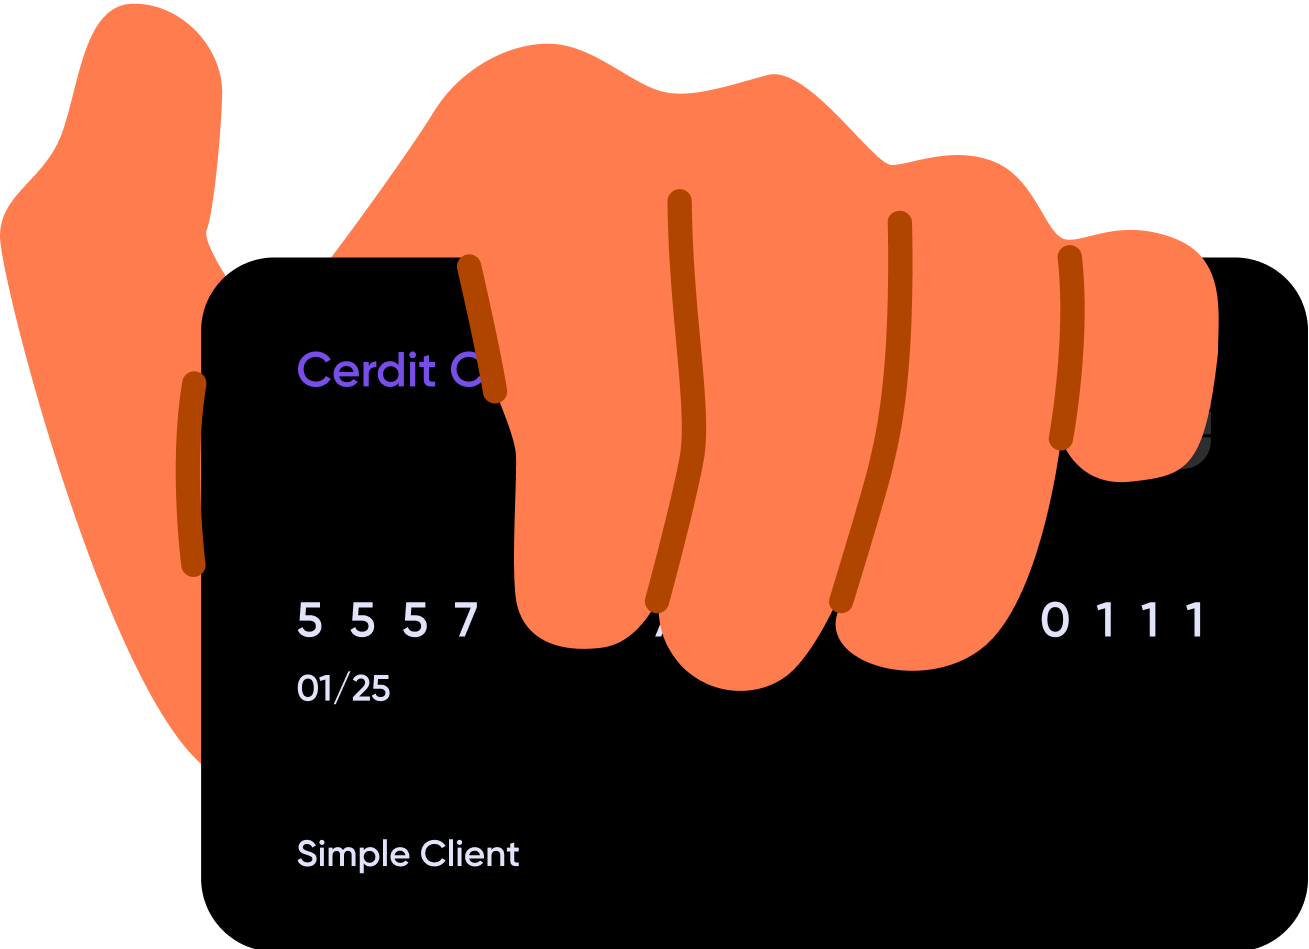
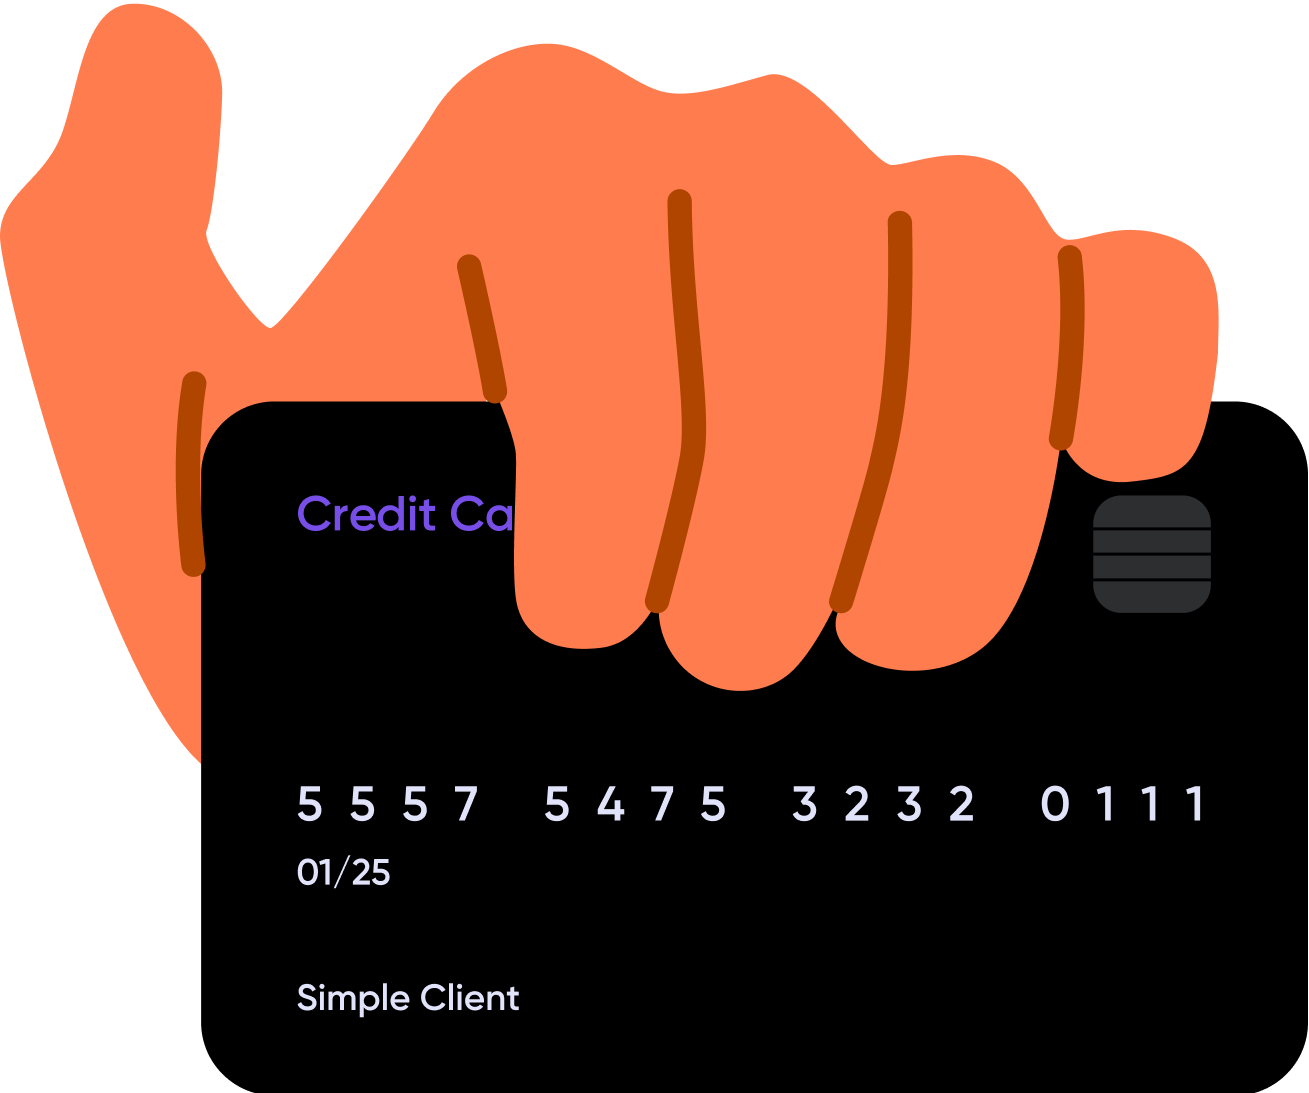
SPU-2238 > Fix card verification

diff --git a/lib/features/kyc/upload_documents/ui/widgets/upload_verification_photo.dart b/lib/features/kyc/upload_documents/ui/widgets/upload_verification_photo.dart
@@ -134,20 +134,6 @@ class _UploadVerificationPhotoBody extends StatelessObserverWidget {
                           ],
                         ),
                       ),
-                      const SpaceH20(),
-                      SPaddingH24(
-                        child: Row(
-                          children: [
-                            Text(
-                              intl.cardVerification_coveredDigits,
-                              maxLines: 2,
-                              style: sBodyText1Style.copyWith(
-                                color: colors.black,
-                              ),
-                            ),
-                          ],
-                        ),
-                      ),
                       const SpaceH32(),
                       DocumentPageView(
                         pageController: store.pageViewController,
@@ -156,6 +142,23 @@ class _UploadVerificationPhotoBody extends StatelessObserverWidget {
                         },
                         itemCount: 1,
                         banners: banners,
+                      ),
+                      const SpaceH32(),
+                      SPaddingH24(
+                        child: Row(
+                          children: [
+                            SizedBox(
+                              width: 280,
+                              child: Text(
+                                intl.cardVerification_coverSymbols,
+                                maxLines: 2,
+                                style: sBodyText1Style.copyWith(
+                                  color: colors.grey1,
+                                ),
+                              ),
+                            ),
+                          ],
+                        ),
                       ),
                       const Spacer(),
                       const SpaceH10(),
